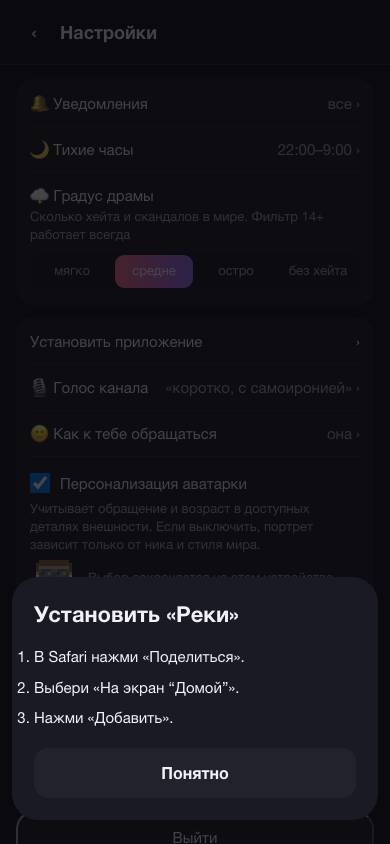
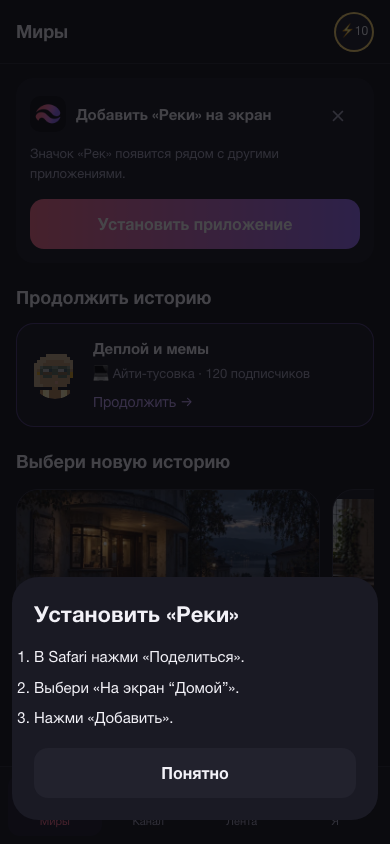
fix(frontend): keep install instructions above catalogue navigation #291

diff --git a/frontend/src/app/install/InstallApp.tsx b/frontend/src/app/install/InstallApp.tsx
@@ -1,3 +1,4 @@
+import {createPortal} from 'react-dom'
 import {useEffect,useId,useRef,useState} from 'react'
 import {Button,Card,Sheet} from '../../ui'
 import {inTelegram} from '../../telegram'
@@ -16,7 +17,7 @@ export function InstallApp({entry}:{entry:'settings'|'banner'}){
  useEffect(()=>{
   if(!open)return
   const previous=document.activeElement as HTMLElement|null
-  heading.current?.focus()
+  heading.current?.focus({preventScroll:true})
   const key=(event:KeyboardEvent)=>{
    if(event.key==='Escape'){event.preventDefault();close()}
    if(event.key==='Tab'){
@@ -28,7 +29,7 @@ export function InstallApp({entry}:{entry:'settings'|'banner'}){
    }
   }
   document.addEventListener('keydown',key)
-  return()=>{document.removeEventListener('keydown',key);previous?.focus()}
+  return()=>{document.removeEventListener('keydown',key);previous?.focus({preventScroll:true})}
  },[open,busy])
  const start=async()=>{
   setMessage('')
@@ -45,13 +46,13 @@ export function InstallApp({entry}:{entry:'settings'|'banner'}){
  if(entry==='banner'&&install.dismissed&&!open)return null
  return <>
   {entry==='settings'?<button type="button" className="install-settings" onClick={()=>void start()} disabled={busy}><span>Установить приложение</span><span aria-hidden="true">›</span></button>:<Card style={{marginBottom:12}}><div className="install-banner-heading"><img src="/android-chrome-192x192.png?v=wave-2" width={36} height={36} alt=""/><strong>Добавить «Реки» на экран</strong><button type="button" aria-label="Закрыть предложение установки" onClick={dismissInstall} disabled={busy}>×</button></div><p className="small muted">Значок «Рек» появится рядом с другими приложениями.</p><Button disabled={busy} onClick={()=>void start()}>{busy?'Открываем установку…':'Установить приложение'}</Button></Card>}
-  {open&&<Sheet onClose={close}><div ref={dialog} role="dialog" aria-modal="true" aria-labelledby={titleId} className="install-dialog">
+  {open&&createPortal(<Sheet onClose={close}><div ref={dialog} role="dialog" aria-modal="true" aria-labelledby={titleId} className="install-dialog">
    <h2 ref={heading} id={titleId} tabIndex={-1}>Установить «Реки»</h2>
    {embedded?<><p>Открой игру {ios?'в Safari':android?'в Chrome':'в обычном браузере'}.</p>{(ios||android)&&<p>Нажми ⋯ вверху окна и выбери «Открыть в браузере».</p>}<p className="small muted">{ios||android?'Нет такого пункта? Скопируй адрес ниже и вставь его в браузер.':'Скопируй адрес ниже и вставь его в Chrome, Edge или Safari.'}</p></>:ios?<ol><li>В Safari нажми «Поделиться».</li><li>Выбери «На экран “Домой”».</li><li>Нажми «Добавить».</li></ol>:android?<ol><li>В Chrome нажми ⋮.</li><li>Выбери «Установить приложение» или «Добавить на главный экран».</li></ol>:safari?<p>В меню Safari выбери «Файл» → «Добавить в Dock».</p>:<p>В меню браузера выбери «Установить приложение». В Edge этот пункт находится в разделе «Приложения».</p>}
    {install.prompt&&!embedded&&<Button disabled={busy} onClick={()=>void start()}>{busy?'Открываем установку…':'Открыть установку браузера'}</Button>}
    {embedded&&<><label className="small muted" htmlFor={`${titleId}-url`}>Адрес игры</label><input id={`${titleId}-url`} className="install-address" readOnly value={`${location.origin}/`} onFocus={e=>e.target.select()}/>{navigator.clipboard&&<Button secondary onClick={()=>void navigator.clipboard.writeText(`${location.origin}/`).then(()=>setMessage('Адрес скопирован')).catch(()=>setMessage('Выдели и скопируй адрес из поля выше.'))}>Скопировать адрес</Button>}</>}
    {message&&<p role="status" className="small">{message}</p>}
    <Button secondary disabled={busy} onClick={close}>Понятно</Button>
-  </div></Sheet>}
+  </div></Sheet>,document.body)}
  </>
 }
